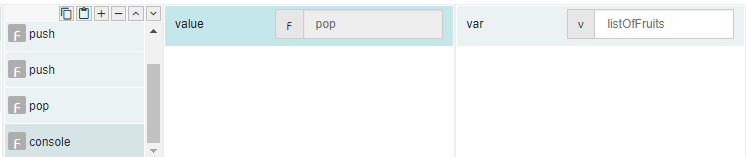
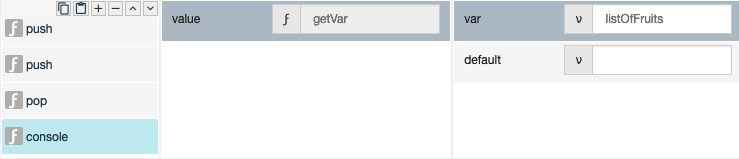
update pop

diff --git a/document/function/Array/pop/pop.md b/document/function/Array/pop/pop.md
@@ -1,4 +1,4 @@
-# Pop
+# Pop
 
 ### Description
 
@@ -25,21 +25,27 @@ The user wants to remove the value in an array.
    var: listOfFruits<br />
    value : jackfruit<br>
    value : mango<br>
+   value : banana<br>
 
    ![](../../../../document/function/Array/pop/pop-step-1.png?raw=true)
     
-2. Call the function "pop" <br>
-   var:listOfFruits<br />
+2. Call the "pop" function. <br>
+   var: listOfFruits<br />
     
    ![](../../../../document/function/Array/pop/pop-step-2.png?raw=true)
     
-3.  Add a console for display the input.
+3.  Add a console to view the remaining value in the array.<br>
+	var: listOfFruits<br />
   
     ![](../../../../document/function/Array/pop/pop-step-3.png?raw=true)
 
 ### Result
 
-"jackfruit".
+"banana" has been deleted from the array. <br />
+The remaining value as shown below:
+
+   ![](../../../../document/function/Array/pop/pop-step-4.png?raw=true)
+	
 
 ### Video
 
